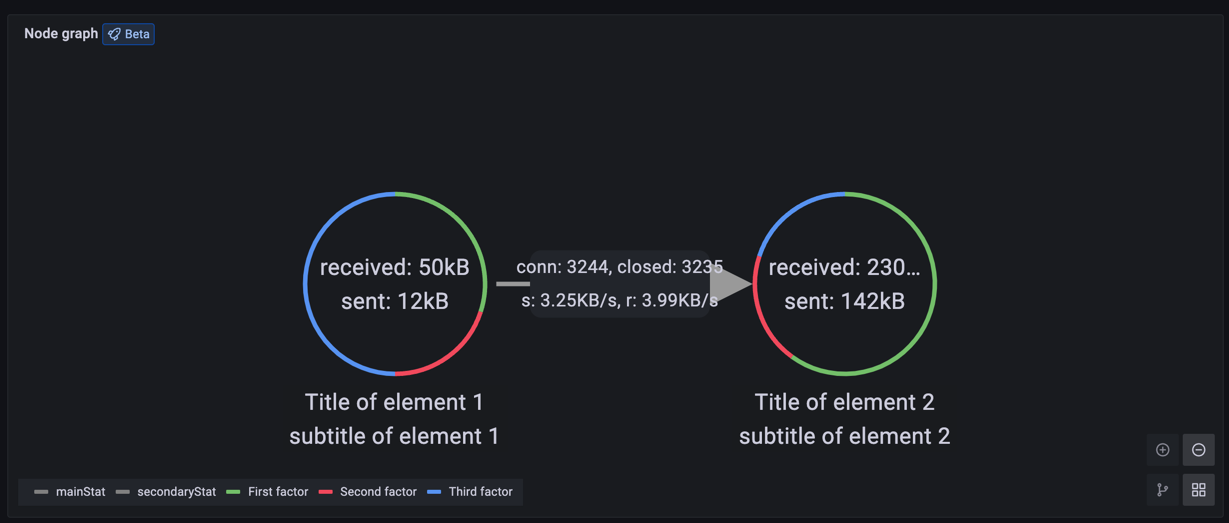
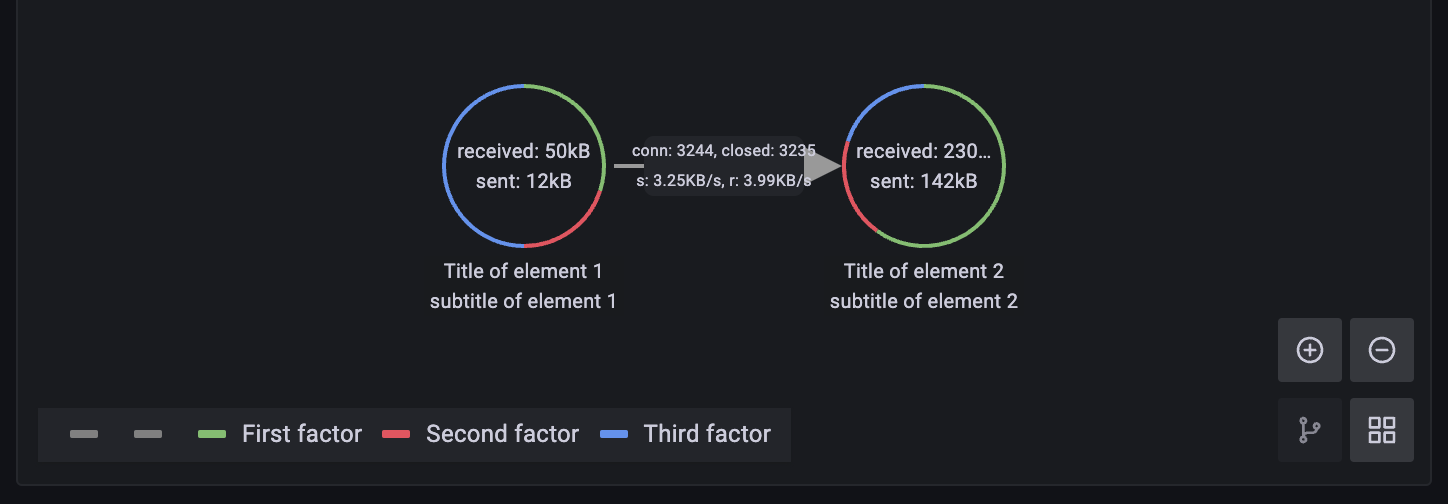
Plugin signing preparation

diff --git a/README.md b/README.md
@@ -20,6 +20,14 @@ Datasource plugin to visualize data as Node graph panel for Grafana (https://gra
       "arc__3":{
          "displayName":"Third factor",
          "color":"blue"
+      },
+       "mainStat": {
+         "displayName": " ",
+         "color": ""
+      },
+      "secondaryStat": {
+         "displayName": " ",
+         "color": ""
       }
    },
    "nodes":[
